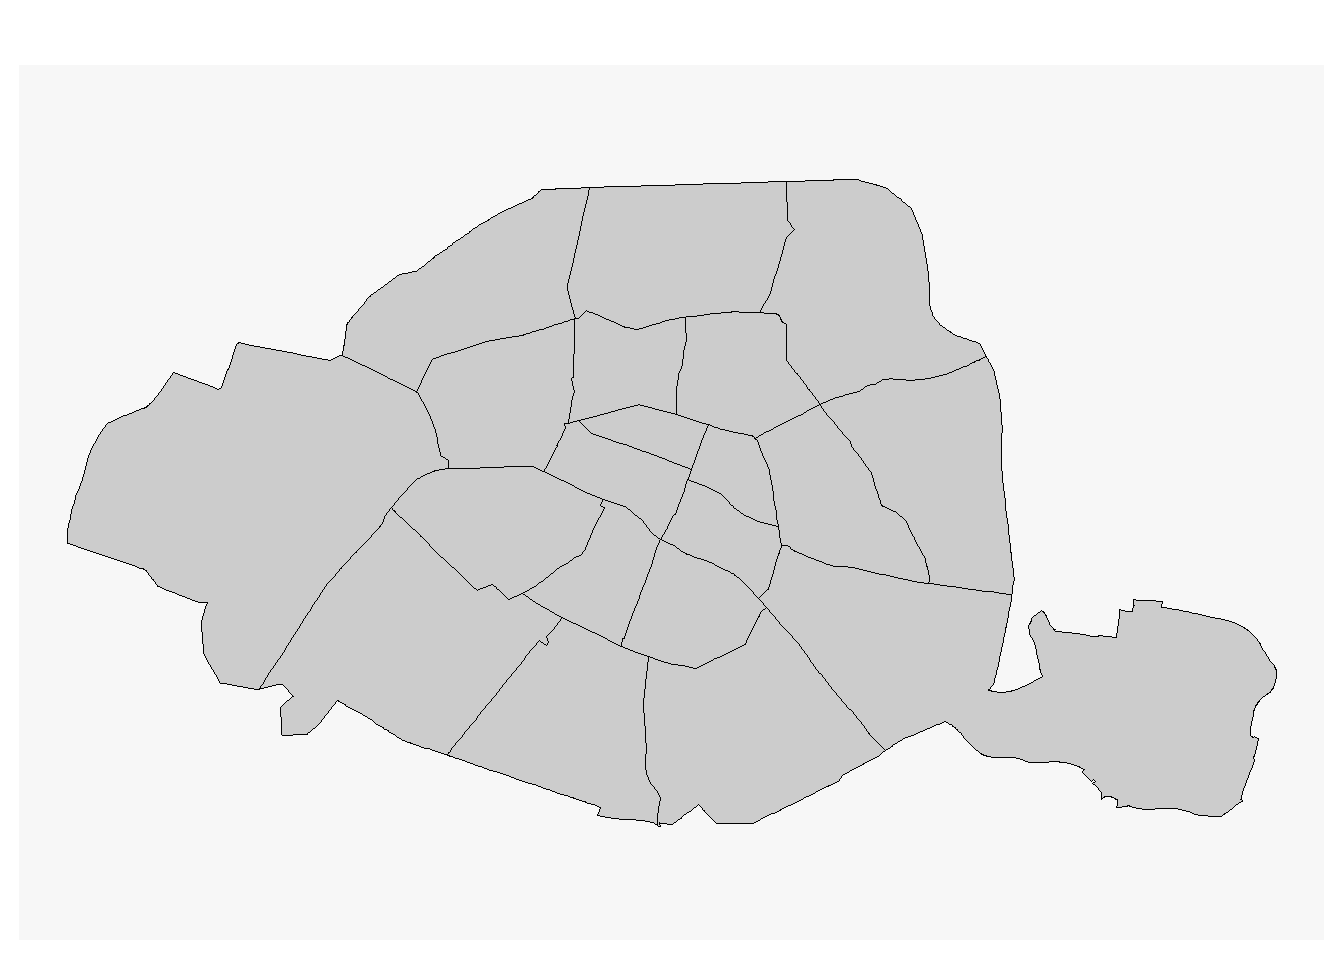
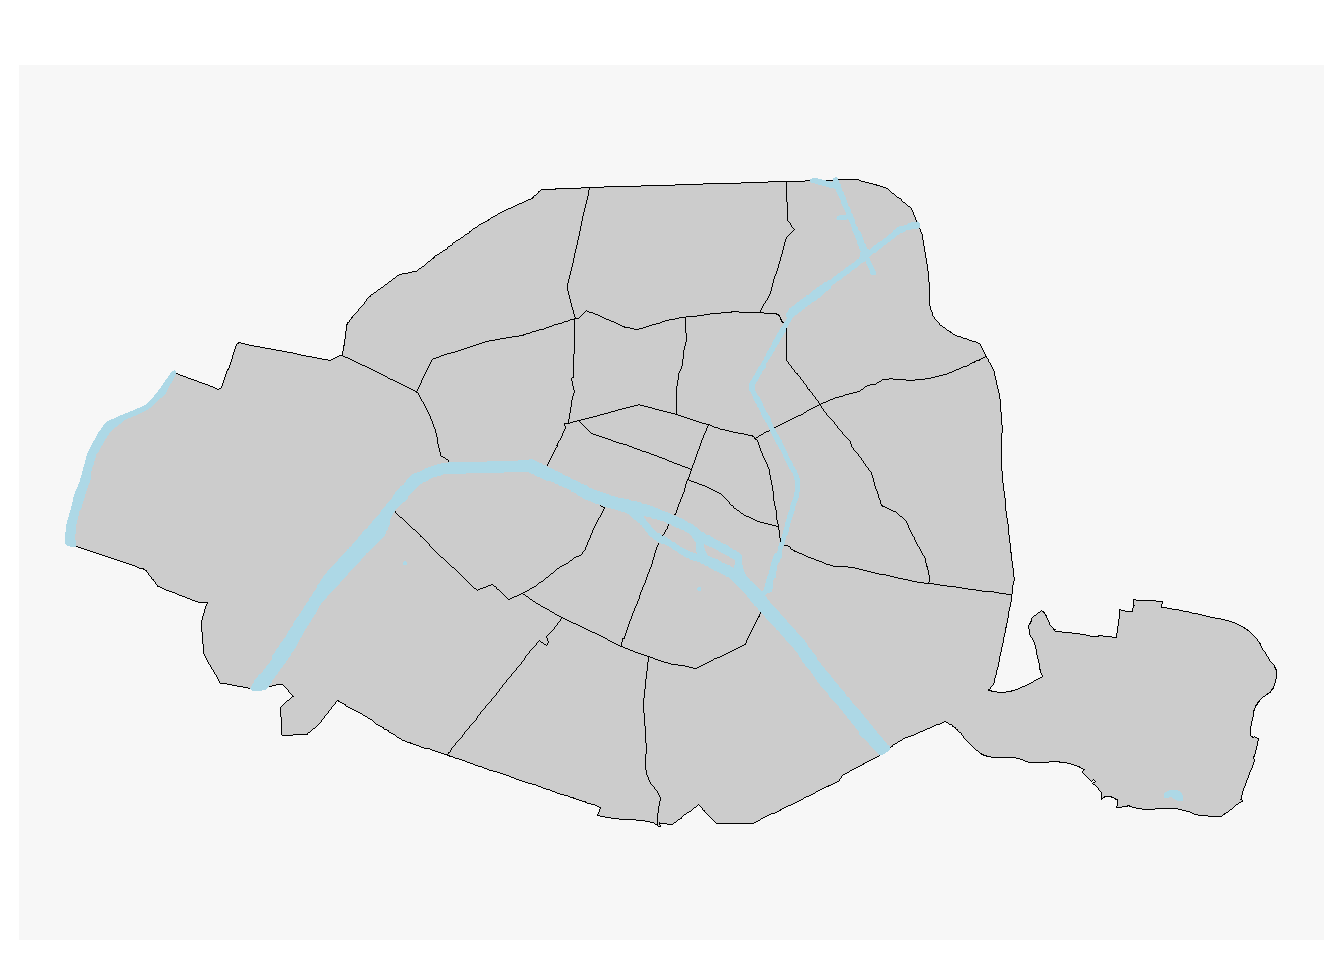
maj mapsf

diff --git a/docs/R/assist/posts/mapsf/map_sf.html b/docs/R/assist/posts/mapsf/map_sf.html
@@ -258,9 +258,13 @@ Geodetic CRS:  WGS 84</code></pre>
 <div class="cell">
 <div class="code-with-filename">
 <div class="code-with-filename-file">
-<pre><strong>Affichage du fond de carte des arrondissements</strong></pre>
+<pre><strong>Affichage du fond de carte des arrondissements avec cours d'eau</strong></pre>
 </div>
-<div class="sourceCode cell-code" id="cb7"><pre class="sourceCode numberSource r number-lines code-with-copy"><code class="sourceCode r"><span id="cb7-1"><a href="#cb7-1"></a><span class="fu">mf_map</span>(<span class="at">x =</span> arrondissements, <span class="at">border =</span> <span class="st">"black"</span>) </span></code><button title="Copier vers le presse-papier" class="code-copy-button"><i class="bi"></i></button></pre></div>
+<div class="sourceCode cell-code" id="cb7"><pre class="sourceCode numberSource r number-lines code-with-copy"><code class="sourceCode r"><span id="cb7-1"><a href="#cb7-1"></a><span class="co"># Arrondissements</span></span>
+<span id="cb7-2"><a href="#cb7-2"></a><span class="fu">mf_map</span>(<span class="at">x =</span> arrondissements, <span class="at">border =</span> <span class="st">"black"</span>) </span>
+<span id="cb7-3"><a href="#cb7-3"></a></span>
+<span id="cb7-4"><a href="#cb7-4"></a><span class="co"># Ajout des cours d'eau</span></span>
+<span id="cb7-5"><a href="#cb7-5"></a><span class="fu">mf_map</span>(<span class="at">x=</span>cours_deau,<span class="at">lwd=</span><span class="dv">2</span>,<span class="at">border=</span><span class="st">"lightblue"</span>,<span class="at">col=</span><span class="st">"lightblue"</span>,<span class="at">add=</span><span class="cn">TRUE</span>)</span></code><button title="Copier vers le presse-papier" class="code-copy-button"><i class="bi"></i></button></pre></div>
 </div>
 <div class="cell-output-display">
 <div class="quarto-figure quarto-figure-center">
@@ -270,7 +274,6 @@ Geodetic CRS:  WGS 84</code></pre>
 </div>
 </div>
 </div>
-<p>{r filename=“Affichage des cours d’eau”} mf_map(x=cours_deau,lwd=2,border=“lightblue”,col=“lightblue”,add=TRUE)</p>
 <div class="cell">
 <div class="code-with-filename">
 <div class="code-with-filename-file">
@@ -847,18 +850,18 @@ window.document.addEventListener("DOMContentLoaded", function (event) {
 <span id="cb15-74"><a href="#cb15-74"></a><span class="in">```</span></span>
 <span id="cb15-75"><a href="#cb15-75"></a></span>
 <span id="cb15-76"><a href="#cb15-76"></a></span>
-<span id="cb15-77"><a href="#cb15-77"></a><span class="in">```{r filename="Affichage du fond de carte des arrondissements"}</span></span>
-<span id="cb15-78"><a href="#cb15-78"></a><span class="fu">mf_map</span>(<span class="at">x =</span> arrondissements, <span class="at">border =</span> <span class="st">"black"</span>) </span>
-<span id="cb15-79"><a href="#cb15-79"></a><span class="in">```</span></span>
-<span id="cb15-80"><a href="#cb15-80"></a></span>
-<span id="cb15-81"><a href="#cb15-81"></a>{r filename="Affichage des cours d'eau"}</span>
-<span id="cb15-82"><a href="#cb15-82"></a>mf_map(x=cours_deau,lwd=2,border="lightblue",col="lightblue",add=TRUE)</span>
-<span id="cb15-83"><a href="#cb15-83"></a></span>
-<span id="cb15-84"><a href="#cb15-84"></a></span>
-<span id="cb15-85"><a href="#cb15-85"></a><span class="in">```{r filename="Fond noir"}</span></span>
-<span id="cb15-86"><a href="#cb15-86"></a><span class="fu">mf_theme</span>(<span class="st">"darkula"</span>)</span>
-<span id="cb15-87"><a href="#cb15-87"></a><span class="in">```</span></span>
-<span id="cb15-88"><a href="#cb15-88"></a></span>
+<span id="cb15-77"><a href="#cb15-77"></a><span class="in">```{r filename="Affichage du fond de carte des arrondissements avec cours d'eau"}</span></span>
+<span id="cb15-78"><a href="#cb15-78"></a></span>
+<span id="cb15-79"><a href="#cb15-79"></a><span class="co"># Arrondissements</span></span>
+<span id="cb15-80"><a href="#cb15-80"></a><span class="fu">mf_map</span>(<span class="at">x =</span> arrondissements, <span class="at">border =</span> <span class="st">"black"</span>) </span>
+<span id="cb15-81"><a href="#cb15-81"></a></span>
+<span id="cb15-82"><a href="#cb15-82"></a><span class="co"># Ajout des cours d'eau</span></span>
+<span id="cb15-83"><a href="#cb15-83"></a><span class="fu">mf_map</span>(<span class="at">x=</span>cours_deau,<span class="at">lwd=</span><span class="dv">2</span>,<span class="at">border=</span><span class="st">"lightblue"</span>,<span class="at">col=</span><span class="st">"lightblue"</span>,<span class="at">add=</span><span class="cn">TRUE</span>)</span>
+<span id="cb15-84"><a href="#cb15-84"></a><span class="in">```</span></span>
+<span id="cb15-85"><a href="#cb15-85"></a></span>
+<span id="cb15-86"><a href="#cb15-86"></a><span class="in">```{r filename="Fond noir"}</span></span>
+<span id="cb15-87"><a href="#cb15-87"></a><span class="fu">mf_theme</span>(<span class="st">"darkula"</span>)</span>
+<span id="cb15-88"><a href="#cb15-88"></a><span class="in">```</span></span>
 <span id="cb15-89"><a href="#cb15-89"></a></span>
 <span id="cb15-90"><a href="#cb15-90"></a></span>
 <span id="cb15-91"><a href="#cb15-91"></a><span class="fu"># Différents types de cartes</span></span>
@@ -1031,7 +1034,7 @@ window.document.addEventListener("DOMContentLoaded", function (event) {
 </code><button title="Copier vers le presse-papier" class="code-copy-button"><i class="bi"></i></button></pre></div>
 </div></div></div></div></div>
 </div> <!-- /content -->
-<script>var lightboxQuarto = GLightbox({"descPosition":"bottom","closeEffect":"zoom","openEffect":"zoom","selector":".lightbox","loop":true});</script>
+<script>var lightboxQuarto = GLightbox({"descPosition":"bottom","loop":true,"selector":".lightbox","closeEffect":"zoom","openEffect":"zoom"});</script>
 
 
 

diff --git a/docs/index.html b/docs/index.html
@@ -205,7 +205,7 @@ Version <span class="math inline">\(\alpha +\)</span> juillet 2023
 <p>Fiches sur des problématiques exclusives à <strong>R</strong>.</p>
 <div id="listing-latest-content-R" class="quarto-listing quarto-listing-container-grid">
 <div class="list grid quarto-listing-cols-3">
-<div class="g-col-1" data-index="0" data-categories="Cartographie" data-listing-date-sort="1690408800000" data-listing-file-modified-sort="1690458680291" data-listing-date-modified-sort="NaN" data-listing-reading-time-sort="5">
+<div class="g-col-1" data-index="0" data-categories="Cartographie" data-listing-date-sort="1690408800000" data-listing-file-modified-sort="1690461985379" data-listing-date-modified-sort="NaN" data-listing-reading-time-sort="5">
 <a href="./R/assist/posts/mapsf/map_sf.html" class="quarto-grid-link">
 <div class="quarto-grid-item card h-100 card-left">
 <p class="card-img-top">

diff --git a/docs/R/index.html b/docs/R/index.html
@@ -233,7 +233,7 @@ pre > code.sourceCode > span > a:first-child::before { text-decoration: underlin
 </tr>
 </thead>
 <tbody class="list">
-<tr data-index="0" data-categories="Cartographie" data-listing-date-sort="1690408800000" data-listing-file-modified-sort="1690458680291" data-listing-date-modified-sort="NaN" data-listing-reading-time-sort="5" data-listing-title-sort="Réaliser des cartes thématiques avec Mapsf" data-listing-filename-sort="map_sf.qmd">
+<tr data-index="0" data-categories="Cartographie" data-listing-date-sort="1690408800000" data-listing-file-modified-sort="1690461985379" data-listing-date-modified-sort="NaN" data-listing-reading-time-sort="5" data-listing-title-sort="Réaliser des cartes thématiques avec Mapsf" data-listing-filename-sort="map_sf.qmd">
 <td>
 <span class="listing-date">27 juil. 2023</span>
 </td>

diff --git a/docs/R/assist/index.html b/docs/R/assist/index.html
@@ -186,7 +186,7 @@ Auteur·rice
 </tr>
 </thead>
 <tbody class="list">
-<tr data-index="0" data-categories="Cartographie" data-listing-date-sort="1690408800000" data-listing-file-modified-sort="1690458680291" data-listing-date-modified-sort="NaN" data-listing-reading-time-sort="5" data-listing-title-sort="Réaliser des cartes thématiques avec Mapsf" data-listing-filename-sort="map_sf.qmd">
+<tr data-index="0" data-categories="Cartographie" data-listing-date-sort="1690408800000" data-listing-file-modified-sort="1690461985379" data-listing-date-modified-sort="NaN" data-listing-reading-time-sort="5" data-listing-title-sort="Réaliser des cartes thématiques avec Mapsf" data-listing-filename-sort="map_sf.qmd">
 <td>
 <span class="listing-date">27 juil. 2023</span>
 </td>
